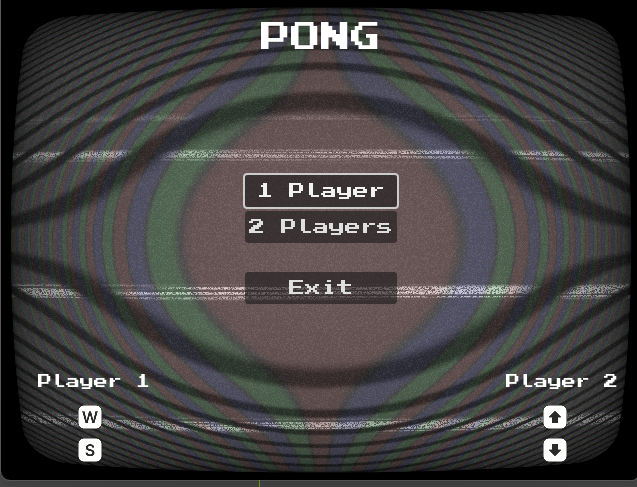
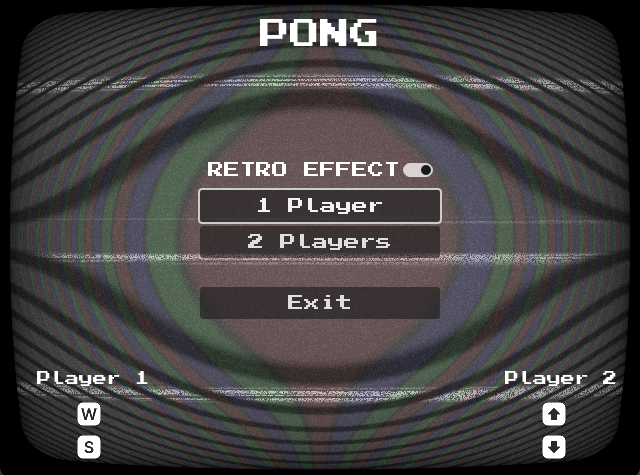
updated cover with the new menu

diff --git a/README.md b/README.md
@@ -1,5 +1,5 @@
 <p align="center">
-    <img width="256px" src="https://github.com/godotessentials/godot-retro-pong/blob/main/retro_pong_cover.png" alt="retro-pong-cover" />  
+    <img width="256px" src="https://github.com/godotessentials/godot-retro-pong/blob/main/images/retro_pong_cover.png" alt="retro-pong-cover" />  
 	<h1 align="center">Retro Pong</h1>
 </p>
 
